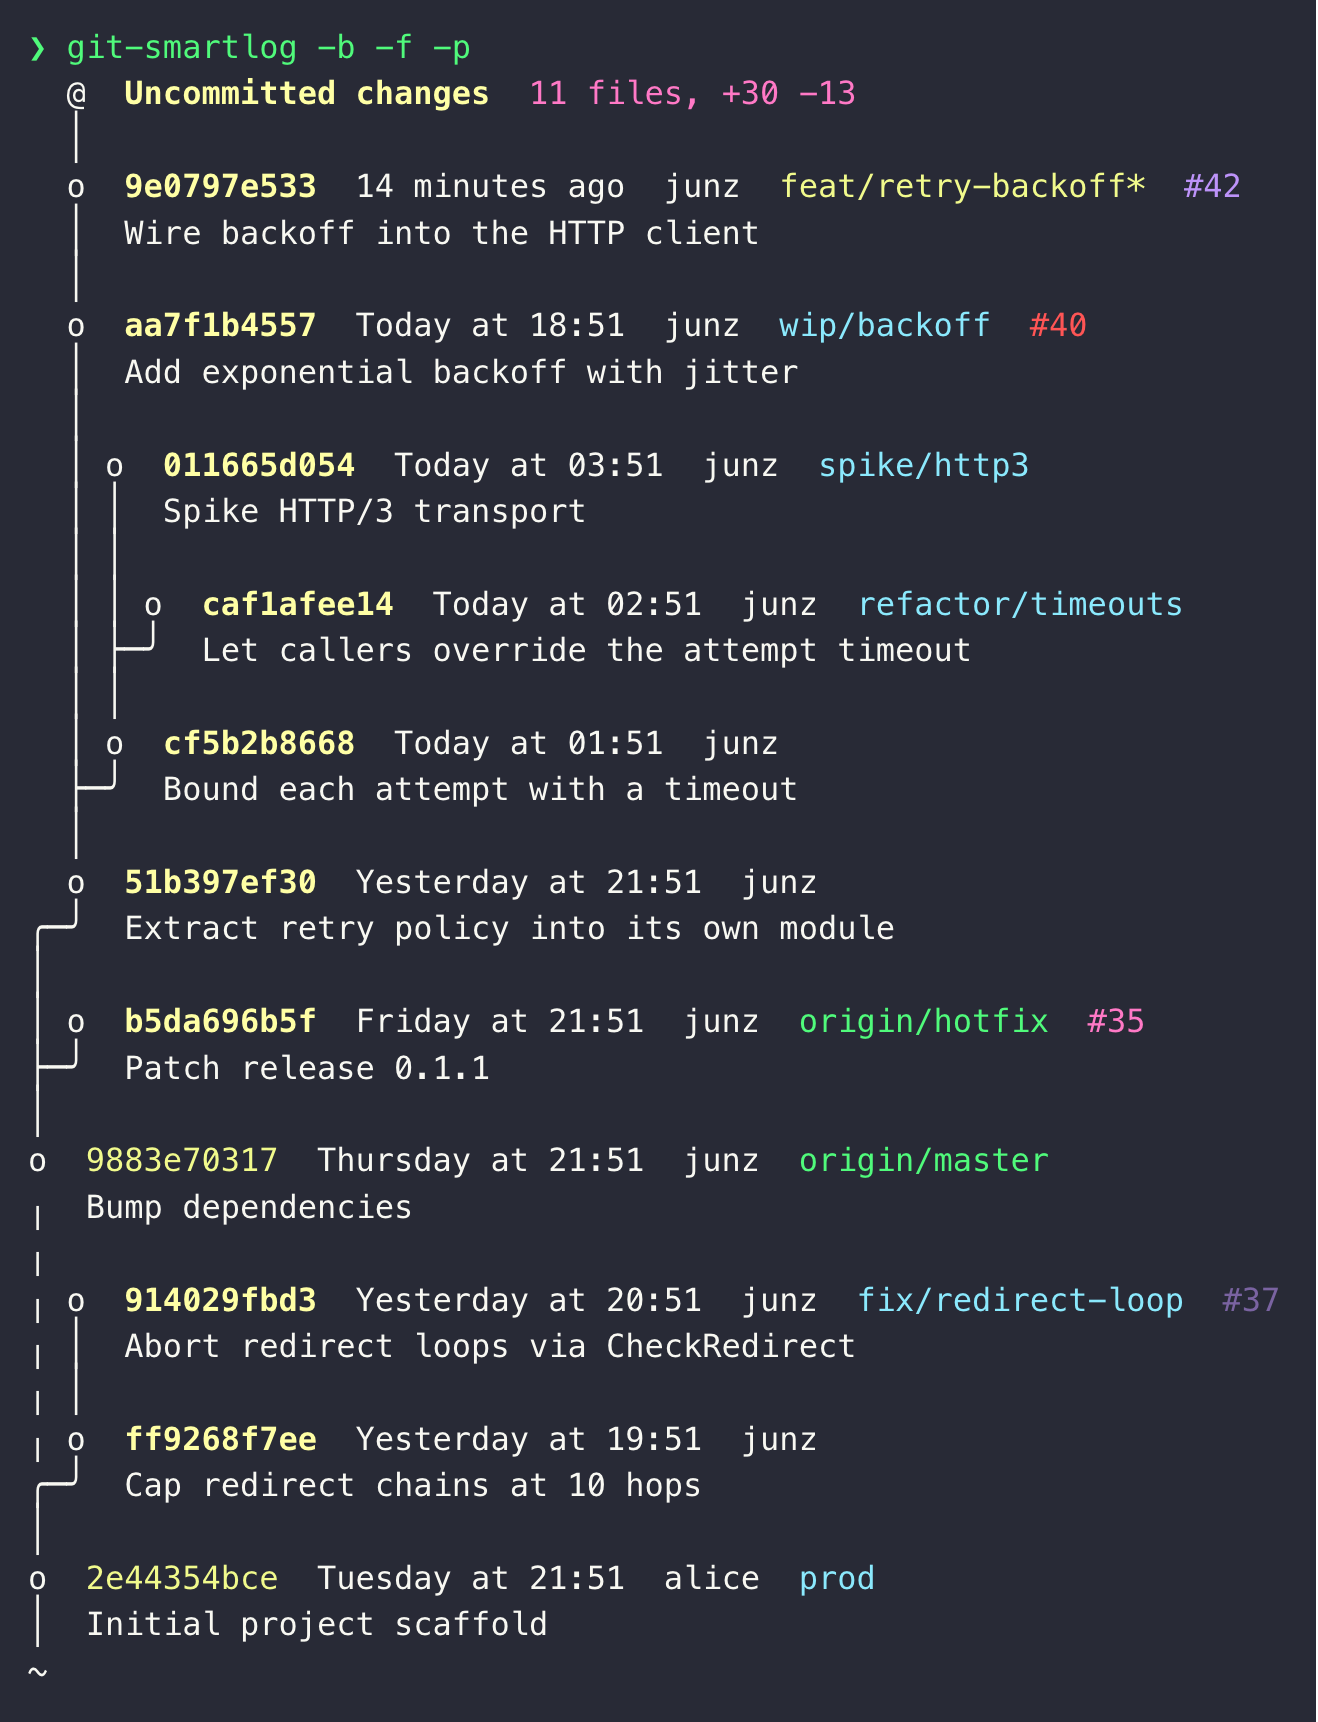
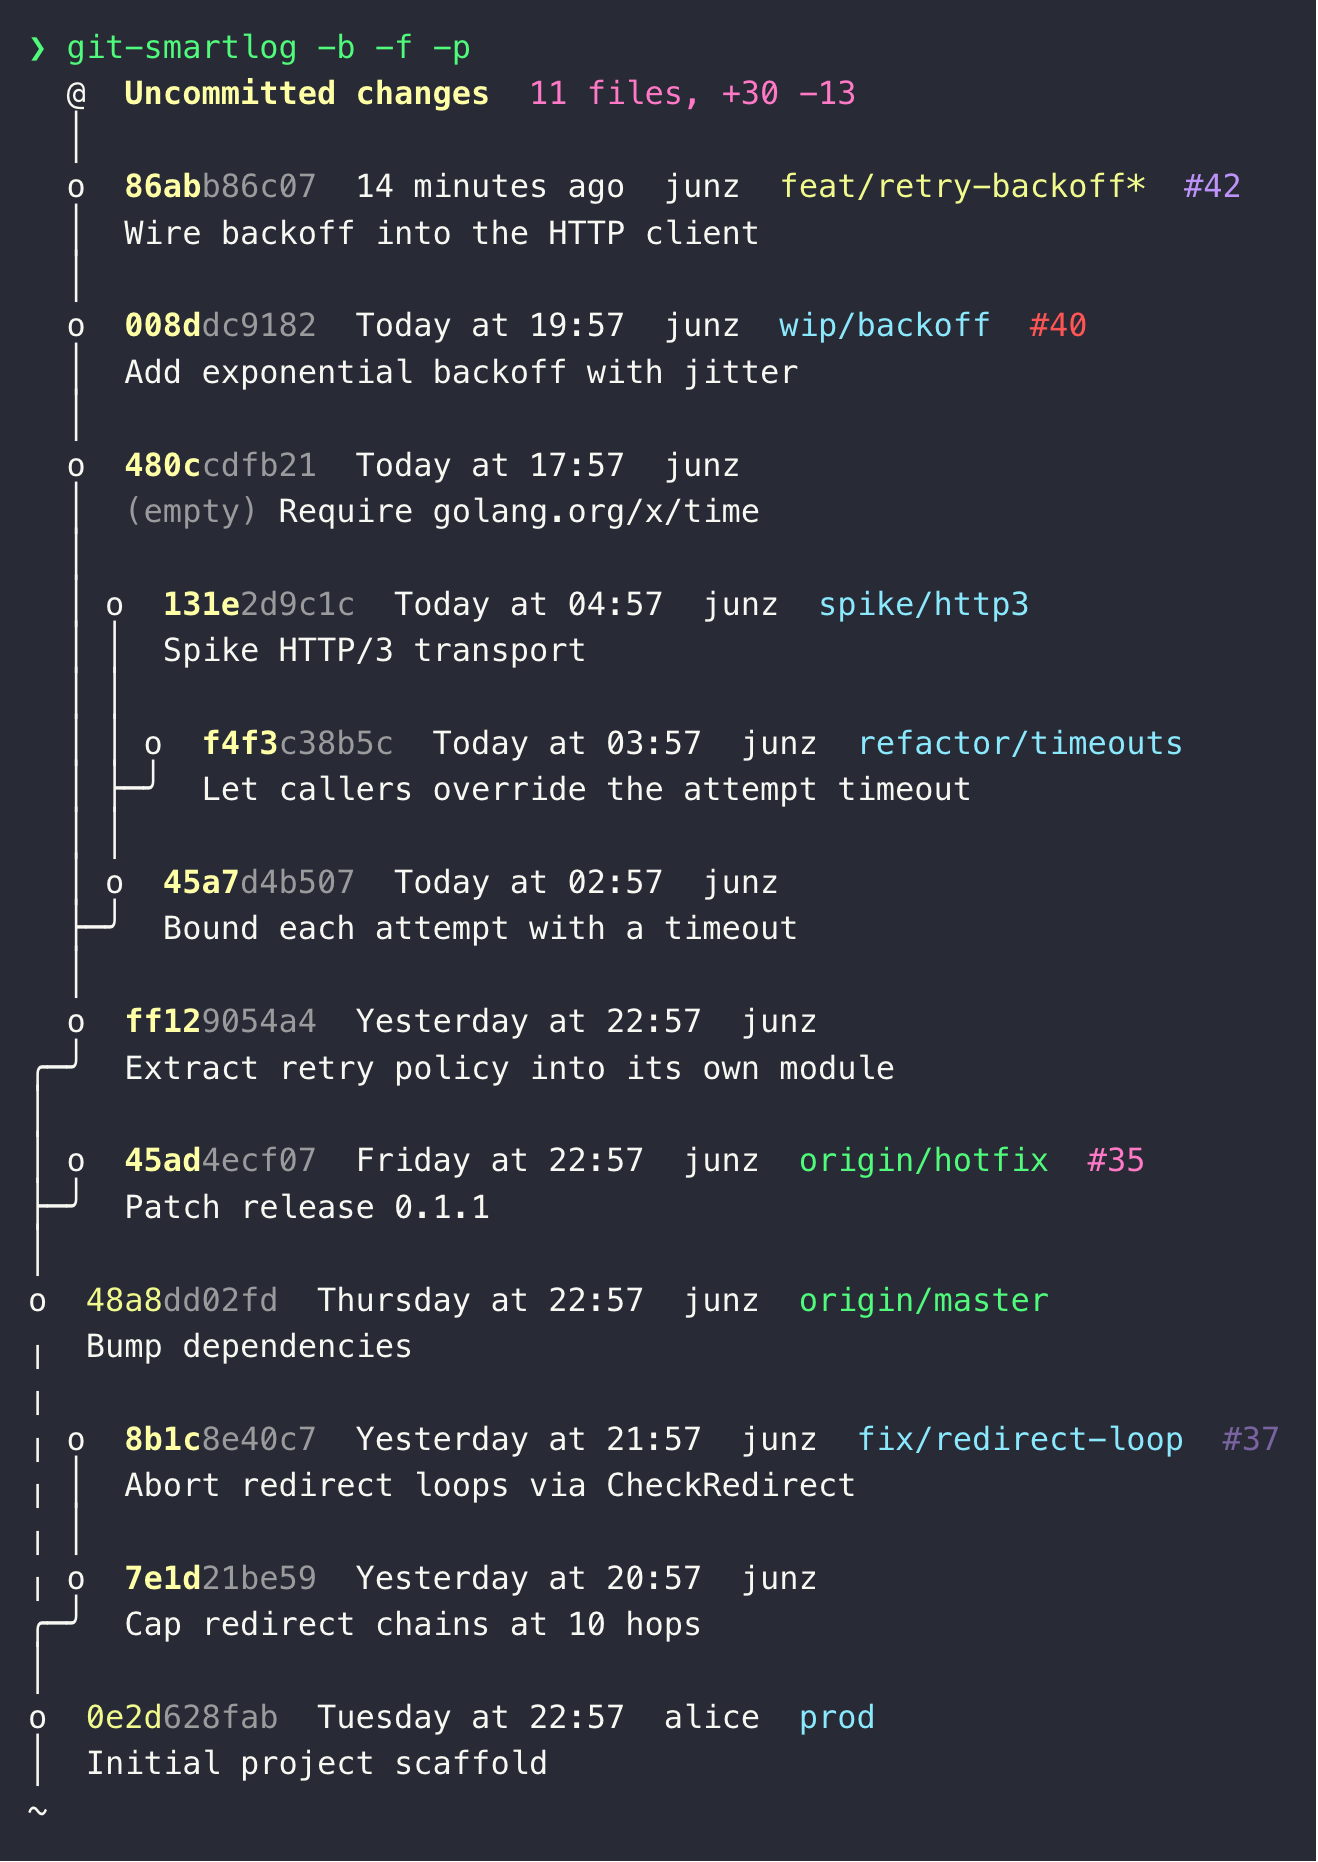
feat: label (empty) commits, and dim hashes past their unique prefix
Two more borrowings from jj, landing together because they share the
metadata pass and the streamed-tail loop — splitting them would mean
editing the same lines twice.

(empty): a commit whose tree equals its first parent's (the empty tree for
a root commit) gets a dim "(empty)" before its subject, and no -c body.
A rebase whose changes already landed upstream leaves exactly this, and
until now it looked like any other commit — which is the one you want to
drop. Decided from %T rather than a diff: parents inside the window come
free with the metadata every row already fetches, the few outside come in
one batched lookup. The -f tail holds each row one record behind, since in
a first-parent walk the record just read IS the previous row's parent —
so it marks empties too without a fork per row. Text, not color, so it
survives NO_COLOR.

Hash: the shortest prefix that uniquely names the commit keeps the hash
color and the digits past it go dim, so a row shows how much of it you
actually have to type. Free: the same git log now asks for %h at
--abbrev=4 (git widens from that floor until unambiguous) and cuts the
displayed 10 digits from %H. A repo that collides inside 10 digits gets
the wider unique prefix instead of an ambiguous hash, the way git widens
its own output. Color-only, so every text capture is unchanged.

make-demo.zsh grows an empty mid-stack draft — the README can only show
what the demo produces. Examples re-captured, screenshots regenerated.
[…]

diff --git a/README.md b/README.md
@@ -14,10 +14,11 @@ abbreviating anything — combine freely. See below.
 
 It began as a mimic of Sapling's `sl`, and still owes it the graph layout, the
 relative-time format and the color defaults. It has since grown enough of its
-own that it no longer tracks `sl`'s output, and isn't trying to. The
-uncommitted-changes node is borrowed from
-[Jujutsu](https://github.com/jj-vcs/jj), which treats the working copy as a
-commit in its own right.
+own that it no longer tracks `sl`'s output, and isn't trying to. Three things
+come from [Jujutsu](https://github.com/jj-vcs/jj) instead: the
+uncommitted-changes node, since jj treats the working copy as a commit in its
+own right; the `(empty)` label on a commit that changed nothing; and hashes
+that dim everything past the prefix which uniquely identifies them.
 
 The story behind it is in
 [this post](https://junz.info/writing/git-smartlog/).
@@ -34,16 +35,19 @@ clean working tree:
 <!-- fixture: demo-clean -->
 ```text
 $ git smartlog
-  @  e6152ce8e3  14 minutes ago  junz  feat/retry-backoff*
+  @  069cabb18f  14 minutes ago  junz  feat/retry-backoff*
   │  Wire backoff into the HTTP client
   │
-  o  6f1c5c322c  Today at 17:34  junz
+  o  b9b916ac16  Today at 19:55  junz
   │  Add exponential backoff with jitter
   │
-  o  4166003ae8  Yesterday at 20:34  junz
+  o  1ad3c2a1ab  Today at 17:55  junz
+  │  (empty) Require golang.org/x/time
+  │
+  o  9b9e5b6d72  Yesterday at 22:55  junz
 ╭─╯  Extract retry policy into its own module
 │
-o  99b3100c38  Thursday at 20:34  junz  origin/master
+o  39d1dfd162  Thursday at 22:55  junz  origin/master
 │  Bump dependencies
 ~
 ```
@@ -53,6 +57,18 @@ draft commits, newest first. Below the bend sits the public base — the nearest
 pushed commit, here `origin/master` — and `~` marks the truncated history beyond
 it. This example and the next assume that clean tree: a dirty one always draws
 one more node on top, which is the section after them.
+
+A subject prefixed **`(empty)`** is a commit that changed nothing against its
+parent — here, a rebase onto `origin/master` found the dependency bump already
+applied and left the commit with nothing in it. Without the label an emptied
+commit is indistinguishable from one still carrying work; with it, the commit
+you want to drop says so. (`-c` gives such a commit no stat body at all, below.)
+
+In a terminal the hash also splits: the shortest prefix that uniquely names the
+commit in this repo keeps the hash color and the digits past it go dim, so a row
+shows how much of a hash you actually have to type. It's a color effect only —
+the text is the same 10 digits either way, which is why these captures don't
+show it. The cover image up top does.
 
 The public column stops at that base by design — one row plus `~`. `-f` /
 `--full` is the tool's one *don't abbreviate* switch, and it lifts three
@@ -65,22 +81,25 @@ subject back. The third is the submodule sub-line cap, further down.
 <!-- fixture: demo-clean -->
 ```text
 $ git smartlog -f
-  @  2cefe2d943  14 minutes ago  junz  feat/retry-backoff*
+  @  069cabb18f  14 minutes ago  junz  feat/retry-backoff*
   │  Wire backoff into the HTTP client
   │
-  o  bc7afdc65b  Today at 18:51  junz
+  o  b9b916ac16  Today at 19:55  junz
   │  Add exponential backoff with jitter
   │
-  o  88395fc0f3  Yesterday at 21:51  junz
+  o  1ad3c2a1ab  Today at 17:55  junz
+  │  (empty) Require golang.org/x/time
+  │
+  o  9b9e5b6d72  Yesterday at 22:55  junz
 ╭─╯  Extract retry policy into its own module
 │
-o  c08935dddd  Thursday at 21:51  junz  origin/master
+o  39d1dfd162  Thursday at 22:55  junz  origin/master
 │  Bump dependencies
 │
-o  4347b66078  Wednesday at 21:51  alice
+o  02f97156dd  Wednesday at 22:55  alice
 │  Introduce typed errors
 │
-o  0bff574d95  Tuesday at 21:51  alice
+o  f00cdf1bc1  Tuesday at 22:55  alice
 │  Initial project scaffold
 ~
 ```
@@ -103,16 +122,19 @@ copy is — and `HEAD` drops to an `o` (keeping its author and subject):
 $ git smartlog
   @  Uncommitted changes  11 files, +30 -13
   │
-  o  2cefe2d943  14 minutes ago  junz  feat/retry-backoff*
+  o  069cabb18f  14 minutes ago  junz  feat/retry-backoff*
   │  Wire backoff into the HTTP client
   │
-  o  bc7afdc65b  Today at 18:51  junz
+  o  b9b916ac16  Today at 19:55  junz
   │  Add exponential backoff with jitter
   │
-  o  88395fc0f3  Yesterday at 21:51  junz
+  o  1ad3c2a1ab  Today at 17:55  junz
+  │  (empty) Require golang.org/x/time
+  │
+  o  9b9e5b6d72  Yesterday at 22:55  junz
 ╭─╯  Extract retry policy into its own module
 │
-o  c08935dddd  Thursday at 21:51  junz  origin/master
+o  39d1dfd162  Thursday at 22:55  junz  origin/master
 │  Bump dependencies
 ~
 ```
@@ -123,7 +145,8 @@ the uncommitted node** — the same flag, on the same footing; sitting directly 
 the trunk (no stack), it covers **every public commit in view** instead — pair it
 with `-f` to walk back through it. Commit bodies close with a dim
 `N files, +X -Y` total line; the uncommitted node keeps its total in the header
-it already had.
+it already had. An `(empty)` commit gets no body — there is nothing to stat, and
+its subject already says so.
 
 Every body is `git diff --stat` bars with each filename prefixed by a one-letter
 change marker; both marker and name are color-coded by kind, on top of git's
@@ -190,26 +213,29 @@ $ git smartlog -c
   │      … +1 more
   │  U version.go           | 4 ++++
   │
-  o  6e3da2593c  14 minutes ago  junz  feat/retry-backoff*
+  o  069cabb18f  14 minutes ago  junz  feat/retry-backoff*
   │  Wire backoff into the HTTP client
   │  M http_client.go | 15 ++++++++++++---
   │  M version.go     |  2 +-
   │  2 files, +13 -4
   │
-  o  0c83b006b2  Today at 18:08  junz
+  o  b9b916ac16  Today at 19:55  junz
   │  Add exponential backoff with jitter
   │  A backoff.go | 13 +++++++++++++
   │  M retry.go   |  7 +++++++
   │  2 files, +20 -0
   │
-  o  090efdec03  Yesterday at 21:08  junz
+  o  1ad3c2a1ab  Today at 17:55  junz
+  │  (empty) Require golang.org/x/time
+  │
+  o  9b9e5b6d72  Yesterday at 22:55  junz
   │  Extract retry policy into its own module
   │  A retry.go       | 11 +++++++++++
   │  M http_client.go |  9 +++++----
   │  2 files, +16 -4
 ╭─╯
 │
-o  0fa721bda0  Thursday at 21:08  junz  origin/master
+o  39d1dfd162  Thursday at 22:55  junz  origin/master
 │  Bump dependencies
 ~
 ```
@@ -234,37 +260,40 @@ base:
 $ git smartlog -b -f
   @  Uncommitted changes  11 files, +30 -13
   │
-  o  2cefe2d943  14 minutes ago  junz  feat/retry-backoff*
+  o  069cabb18f  14 minutes ago  junz  feat/retry-backoff*
   │  Wire backoff into the HTTP client
   │
-  o  bc7afdc65b  Today at 18:51  junz  wip/backoff
+  o  b9b916ac16  Today at 19:55  junz  wip/backoff
   │  Add exponential backoff with jitter
   │
-  │ o  cd77ef158f  Today at 03:51  junz  spike/http3
+  o  1ad3c2a1ab  Today at 17:55  junz
+  │  (empty) Require golang.org/x/time
+  │
+  │ o  c2c3ed0fed  Today at 04:55  junz  spike/http3
   │ │  Spike HTTP/3 transport
   │ │
-  │ │ o  2f8acd8758  Today at 02:51  junz  refactor/timeouts
+  │ │ o  3b88fb56a6  Today at 03:55  junz  refactor/timeouts
   │ ├─╯  Let callers override the attempt timeout
   │ │
-  │ o  3688a2273e  Today at 01:51  junz
+  │ o  f07997a32d  Today at 02:55  junz
   ├─╯  Bound each attempt with a timeout
   │
-  o  88395fc0f3  Yesterday at 21:51  junz
+  o  9b9e5b6d72  Yesterday at 22:55  junz
 ╭─╯  Extract retry policy into its own module
 │
-│ o  b99f8bce09  Friday at 21:51  junz  origin/hotfix
+│ o  a991b4c622  Friday at 22:55  junz  origin/hotfix
 ├─╯  Patch release 0.1.1
 │
-o  c08935dddd  Thursday at 21:51  junz  origin/master
+o  39d1dfd162  Thursday at 22:55  junz  origin/master
 ╷  Bump dependencies
 ╷
-╷ o  6c827ca788  Yesterday at 20:51  junz  fix/redirect-loop
+╷ o  d1037c0e75  Yesterday at 21:55  junz  fix/redirect-loop
 ╷ │  Abort redirect loops via CheckRedirect
 ╷ │
-╷ o  6b48bb0092  Yesterday at 19:51  junz
+╷ o  60a4d85847  Yesterday at 20:55  junz
 ╭─╯  Cap redirect chains at 10 hops
 │
-o  0bff574d95  Tuesday at 21:51  alice  prod
+o  f00cdf1bc1  Tuesday at 22:55  alice  prod
 │  Initial project scaffold
 ~
 ```
@@ -279,37 +308,40 @@ window back to the default and the elision shows up too:
 $ git smartlog -b
   @  Uncommitted changes  11 files, +30 -13
   │
-  o  8685566e7a  14 minutes ago  junz  feat/retry-backoff*
+  o  069cabb18f  14 minutes ago  junz  feat/retry-backoff*
   │  Wire backoff into the HTTP client
   │
-  o  332dae7792  Today at 18:29  junz  wip/backoff
+  o  b9b916ac16  Today at 19:55  junz  wip/backoff
   │  Add exponential backoff with jitter
   │
-  │ o  2cba6cab4d  Today at 03:29  junz  spike/http3
+  o  1ad3c2a1ab  Today at 17:55  junz
+  │  (empty) Require golang.org/x/time
+  │
+  │ o  c2c3ed0fed  Today at 04:55  junz  spike/http3
   │ │  Spike HTTP/3 transport
   │ │
-  │ │ o  3e17ebb235  Today at 02:29  junz  refactor/timeouts
+  │ │ o  3b88fb56a6  Today at 03:55  junz  refactor/timeouts
   │ ├─╯  Let callers override the attempt timeout
   │ │
-  │ o  fcb3c6c361  Today at 01:29  junz
+  │ o  f07997a32d  Today at 02:55  junz
   ├─╯  Bound each attempt with a timeout
   │
-  o  424771e9eb  Yesterday at 21:29  junz
+  o  9b9e5b6d72  Yesterday at 22:55  junz
 ╭─╯  Extract retry policy into its own module
 │
-│ o  d0511f97bf  Friday at 21:29  junz  origin/hotfix
+│ o  a991b4c622  Friday at 22:55  junz  origin/hotfix
 ├─╯  Patch release 0.1.1
 │
-o  db25b229b0  Thursday at 21:29  junz  origin/master
+o  39d1dfd162  Thursday at 22:55  junz  origin/master
 ╷  Bump dependencies
 ╷
-╷ o  254752406c  Yesterday at 20:29  junz  fix/redirect-loop
+╷ o  d1037c0e75  Yesterday at 21:55  junz  fix/redirect-loop
 ╷ │  Abort redirect loops via CheckRedirect
 ╷ │
-╷ o  249db17a80  Yesterday at 19:29  junz
+╷ o  60a4d85847  Yesterday at 20:55  junz
 ╭─╯  Cap redirect chains at 10 hops
 │
-o  70357b18fd  Tuesday at 21:29  prod
+o  f00cdf1bc1  Tuesday at 22:55  prod
 │
 ~
 ```
@@ -331,8 +363,10 @@ off. The cover image up top shows the tags in all four states on the `-b`
 view.
 
 In a real terminal the output is colorized — draft hashes in bold yellow,
-`HEAD`'s line in magenta, remote refs in green, `-b` branch names in cyan. ANSI is suppressed when stdout
-isn't a TTY (as in these captures) or when `NO_COLOR` is set.
+`HEAD`'s line in magenta, remote refs in green, `-b` branch names in cyan, and
+every hash dim past its unique prefix. ANSI is suppressed when stdout
+isn't a TTY (as in these captures) or when `NO_COLOR` is set — which is why
+`(empty)` is a word and the hash split is not.
 
 ## Requirements
 
@@ -505,6 +539,18 @@ empty tree so staged and untracked files still show as additions.)
   merge-base with `HEAD` is closest to `HEAD` wins. `@{u}` and a local
   `main`/`master` are last-resort fallbacks when no remote trunk exists.
 - **Drafts** — first-parent commits in `HEAD ^base`, newest first.
+- **Hashes** — 10 digits, but only the leading ones matter: a second `%h` at
+  `--abbrev=4` in the same `git log` pass asks git for the shortest prefix that
+  names exactly one object, and the digits past it render dim. A repo big enough
+  to collide inside 10 digits is shown the wider unique prefix instead of an
+  ambiguous hash, the way git widens its own output.
+- **`(empty)`** — a commit whose tree equals its first parent's (the empty tree
+  for a root commit) gets its subject prefixed `(empty)`, and no `-c` body.
+  Decided from tree hashes, not diffs: `%T` rides along with the metadata every
+  row already fetches, and the handful of parents outside the window are fetched
+  in one batch rather than a `rev-parse` per row. In the `-f` tail, where there
+  is no window to batch over, rows are held one behind — in a first-parent walk
+  the next record *is* the previous row's parent.
 - **Uncommitted changes** — whenever `git status` is non-empty, a synthetic
   node on top of `HEAD` carrying compact totals; the `@` marker moves there.
   With `-c` it also gets per-file `git diff --stat HEAD` bars. Totals and bars
